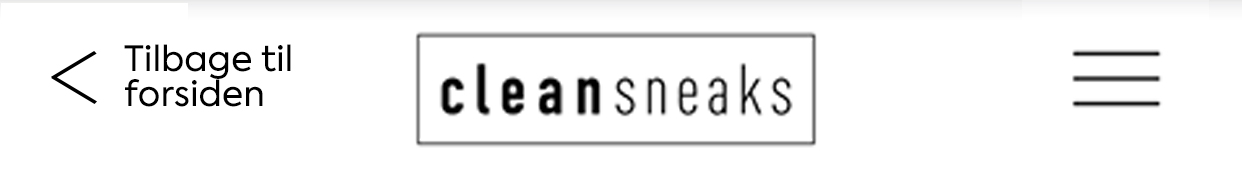
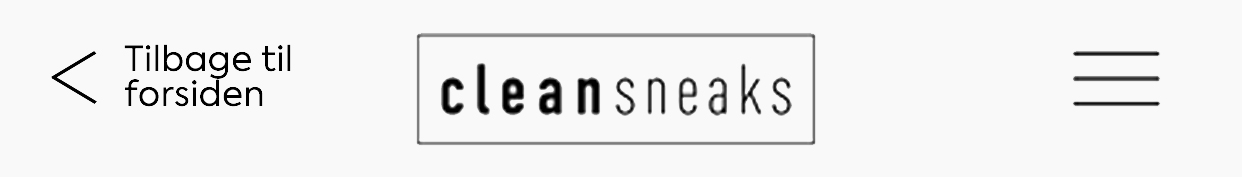
Landingpage begyndt

diff --git a/index.html b/index.html
@@ -1,7 +1,6 @@
-
 <!DOCTYPE html>
 
-<!--dansk site = skriv da i "" herunder / engelsk site = skriv en i == herunder--> 
+<!--dansk site = skriv da i "" herunder / engelsk site = skriv en i == herunder-->
 <html lang="da">
 
 <head>
@@ -18,7 +17,7 @@
     <title>CleanSneaks</title>
 
     <link rel="stylesheet" href="css/style.css">
-    
+
     <link href="https://fonts.googleapis.com/css?family=Cabin" rel="stylesheet">
 
 </head>
@@ -29,19 +28,73 @@
         <img src="images/prototype-header.jpg" alt="prototype header">
 
     </header>
-    
-    <footer>
-    <img src="images/prototype-footer.jpg" alt="prototype footer">
-    </footer>
-    
-    
 
-    <p>Hej hej hej</p>
+    <article id="landingmenu">
+        <section>
+
+
+            <img class="webshop" src="images/webshop.jpg" alt="Clean Sneaks Webshop">
+
+            <img class="aarhusrenseri" src="images/aarhus_renseri.jpg" alt="Clean Sneaks Århus renseri">
+
+
+
+            <img class="silkeborgrenseri" src="images/silkeborg_renseri.jpg" alt="Clean Sneaks Silkeborg renseri">
+
+
+        </section>
+    </article>
+
+
+
+
+
+    <article>
+
+        <section>
+
+            <h1 class="landingoverskrift">Hvorfor Clean Sneaks?</h1>
+
+            <p>Når du går i byen, tager du rent og pænt tøj på. Du hopper i din nystrøget skjorte, dit hår sidder som det skal, makeuppen spiller og du træder i dine beskidte og lugtende sneaks - do you see the point?
+                Hvorfor gå på kompromis med sine sneaks,når der er styr på alt andet? Hos Clean Sneaks er vi passionerede omkring sneaks og vil gøre op med de beskidte af slagsen. Dit outfit siger en hel del om hvem du er - det gør dit sneak game også.
+            </p>
+
+            <img id="streetfyr" src="images/storytelling_street_mand.jpg" alt="Mand der anvender Clean Sneaks">
+
+
+      
+
+            <p class="citat">”Vi vil gerne sørge for at ingen render rundt med beskidte sneaks. Hvorfor er det anderledes hvordan du behandler et par sneaks modsat en hvid skjorte. Vil du tage på arbejde i en beskidt skjorte? Det skal være lige så vigtigt at have rene sko på, som rent tøj. Vi kæmper mod ligegyldigheden omkring sneakers. ”</p> 
+            
+            <p class="citatdennis">- Dennis, Clean Sneaks Århus</p>
+
+           
+        </section>
+
+        <section>
+          
+           
+            <img class="storysneaks" src="images/storytelling_ben.jpg" alt="hvide sneaks">
+
+            <img class="storypige" src="images/storytelling_pige.jpg" alt="pige med hvide sneaks">
+            
+            <h2 class="landingoverskrift">Renseri eller rens selv, you choose!</h2>
+
+            <p>Hos Clean Sneaks vil vi gøre op med de beskidte sneaks. Om du er typen der renser selv eller lader andre gøre arbejdet, så har vi løsningen. Hop ind på vores webshop og tjek vores mange renseprodukter ud, eller gør brug af et af vores renserier i enten Århus eller Silkeborg. Lige meget hvilken løsning du er til garanterer vi Clean Sneaks. </p>
+
+        </section>
+
+    </article>
+
+    <footer>
+        <img src="images/prototype-footer-landing.jpg" alt="prototype footer">
+    </footer>
+
+
+
 
     <script src="js/javascript.js"></script>
 
 </body>
+
 </html>
-
-
-

diff --git a/css/style.css b/css/style.css
@@ -16,11 +16,18 @@
 
 body {
     font-family: 'arboria';
+    background-color: #fcfcfc; 
 }
 
 p {
     font-family: 'Cabin', sans-serif;
 }
+
+h1 h2 {
+    font-family: 'arboria-bold'
+}
+
+
 
 /* Mobil */
 
@@ -34,4 +41,68 @@ p {
         width: 100%;
     }
 
+
+    /*Styles til landingpage mobil*/
+
+
+    .landingoverskrift {
+        font-family: 'axiforma';
+    }
+
+
+
+    /*landingpagemenu*/
+
+    #landingmenu {
+        margin-top: 10%
+    }
+
+    .webshop {
+        width: 93%;
+         display: block;
+    margin-left: auto;
+    margin-right: auto;
+    
+  
+        
+    }
+
+    .aarhusrenseri {
+        width: 45%;
+        margin-left: 4%;
+        margin-top: 4%
+    }
+
+    .silkeborgrenseri {
+        width: 45%;
+    }
+
+
 }
+
+
+/*storytelling*/
+
+.landingoverskrift {
+    text-align: center;
+    margin-top: 25%
+}
+
+p {
+    margin: 5%; text-align: center;
+}
+
+#streetfyr {
+    width: 60%;
+    display: block;
+    margin-left: auto;
+    margin-right: auto;
+    margin-top: 15%
+}
+
+
+.citat {margin-top: 15%; font-style: italic;}
+.citatdennis {font-weight: bold;}
+.storysneaks {width: 45%; margin-left: 4%}
+
+.storypige {width: 45%;}
